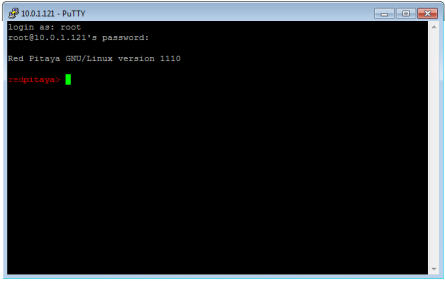
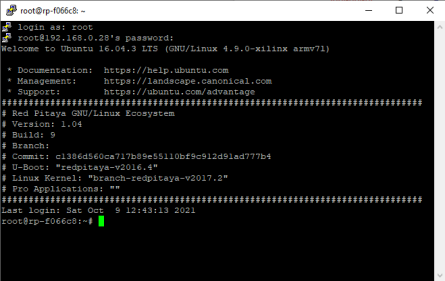
Making FPGA build instructions clearer. Some fixes to console instructions.

Changed region(s): [[0.0, 0.0, 1.0, 1.0]]

diff --git a/developerGuide/software/build/fpga/fpga.rst b/developerGuide/software/build/fpga/fpga.rst
@@ -21,10 +21,28 @@ Install libraries:
 Xilinx Vivado is available from Xilinx downloads page:
 https://www.xilinx.com/support/download/index.html/content/xilinx/en/downloadNav/vivado-design-tools/archive.html
 
+On officially unsupported versions of **Linux**, the installer gives you a warning, but Vivado should work fine, for example running it on Ubuntu 20.04 instead of 18.04.
+
+If the installer glitches out anyway, your /etc/os-release file needs to be changed to "fake" the OS version.
+First, backup the file and then open it as superuser with a text editor such as nano:
+
+.. code-block:: shell-session
+   $ sudo nano /etc/os-release
+
+and change the VERSION line to “VERSION=”18.04.4 LTS (Bionic Beaver)”” and save the file. The edited file should look something like this:
+
+.. figure:: os_release.jpg
+
+After that you can either run the Xilinx_Unified_2020.1_0602_1208_Lin64.bin (Linux web-installer) or the xsetup file from the extracted folder (unified installer).
+After the installation finishes replace the modified file with the one you backed up – failure to do so might cause some problems with other programs.
+
+For more information on Vivado installation, see:
+https://redpitaya-knowledge-base.readthedocs.io/en/latest/learn_fpga/3_vivado_env/tutorfpga1.html
 
 3. *Xilinx SDK development environments 2019.1*
 Xilinx SDK is available from Xilinx downloads page:
 https://www.xilinx.com/support/download/index.html/content/xilinx/en/downloadNav/vitis/archive-sdk.html
+
 
 
 *******************
@@ -165,18 +183,36 @@ Table of required build flags for FPGA projects per board
 | SIGNALlab 250-12     | MODEL=Z20_250       |
 +----------------------+---------------------+
 
-
-If Xilinx Vivado is installed at the default location, then the next command will properly configure system variables:
-
-.. code-block:: shell-session
-
-   $ . /opt/Xilinx/Vivado/2020.1/settings64.sh
-
-In addition to running settings64.sh, it might be also necessary to add SDK bin folder to ``$PATH`` environment variable.
+On the PC that has Vivado installed run the following commands to properly configure system variables (needs to be done every time you open a new terminal window). 
+Alternatively, you can add the following lines to your .bashrc file using a text editor – this will ensure that they are run at the system startup):
 
 .. code-block:: shell-session
+   $ source <path to Xilinx installation directory>/Xilinx/Vivado/2020.1/settings64.sh
+   $ source <path to Xilinx installation directory>/Xilinx/SDK/2019.1/settings64.sh
 
-   # export PATH=<Xilinx install path>/Xilinx/SDK/2019.1/bin:$PATH
+The Xilinx installation directory should be located in /opt directory (or /tools, if you used the default Vivado installation directory).
+These two commands will setup the $PATH environment variable.
+It might also be necessary to add SDK bin folder to the $PATH environment variable:
+
+.. code-block:: shell-session
+   #  export PATH=<path to Xilinx installation directory>/Xilinx/SDK/2019.1/bin:$PATH
+
+
+Check if you have Git command line tools installed on your computer:
+
+.. code-block:: shell-session
+   $ sudo apt update
+   $ sudo apt install git
+
+Create a new directory for the Red Pitaya code. Then download the code by running the following command in the newly created directory:
+
+.. code-block:: shell-session
+   $ git clone https://github.com/RedPitaya/RedPitaya.git
+
+The devicetree sources must also be downloaded and extracted by running 
+
+.. code-block:: shell-session
+   make -f Makefile.x86 devicetree 
 
 The default mode for building the FPGA is to run a TCL script inside Vivado.
 Non project mode is used, to avoid the generation of project files,
@@ -199,7 +235,7 @@ The following scripts perform various tasks:
 | ``red_pitaya_hsi_dts.tcl``        | creates device tree sources                    |
 +-----------------------------------+------------------------------------------------+
 
-First, change your directory to /<path to Red Pitaya repository>/redpitaya-public/fpga.
+First, change your directory to /<path to Red Pitaya repository>/RedPitaya/fpga.
 To generate a bit file, reports, device tree and FSBL, run (replace ``name`` with project name and ``model`` with model flag):
 
 .. code-block:: shell-session
@@ -208,12 +244,10 @@ To generate a bit file, reports, device tree and FSBL, run (replace ``name`` wit
 
 For example, build v0.94 for STEMlab 125-14:
 
-.. code-block:: shell-session
-
    $ make project PRJ=v0.94 MODEL=Z10
 
-The resulting .bit file is located in <project folder>/out/redpitaya.bit
-This file must be copied to /opt/redpitaya/fpga.
+The resulting .bit file is located in /prj/<project name>/out/redpitaya.bit
+This file must be copied to /opt/redpitaya/fpga on the Red Pitaya itself.
 
 If the script returns the following error:
 
@@ -234,7 +268,7 @@ When IPs are up-to-date, go to the tab Tcl console and run command:
 
 Of course, the script may also be named systemZ20.tcl systemZ20_14.tcl, depending on your board.
 
-This generates a new tcl script that replaces the old script in fpga/prj/<name of subproject>/ip
+This generates a new tcl script that replaces the old script in fpga/prj/<project name>/ip
 
 To generate and open a Vivado project using GUI, run:
 
@@ -244,20 +278,34 @@ To generate and open a Vivado project using GUI, run:
 
 For example, v0.94 project for STEMlab 125-14:
 
-.. code-block:: shell-session
-
    $ make project PRJ=v0.94 MODEL=Z10
 
-The resulting .bit file is located in <project folder>/project/redpitaya.runs/impl_1/red_pitaya_top.bit
-This file must be copied to /opt/redpitaya/fpga.
 
-Building the project from GUI is effectively the same as from CLI, except that the user has to click three buttons on the side of the GUI window:
+.. figure:: project_make.jpg
+
+A new, blank project will automatically built and all the necessary files associated with Red Pitaya will be added. 
+You can add/write your Verilog module at the end of red_pitaya_top.sv file (or add a new source by right clicking the Design Sources folder and Add Source):
+
+.. figure:: vivado_project.jpg
+
+You can connect newly added sources in the Diagram (Block Design) section (If it is not open: Window => Design => double click system). 
+Add them to the design by right click => Add Module in the design window (for more information check the Learn FPGA programming => FPGA lessons section) 
+https://redpitaya-knowledge-base.readthedocs.io/en/latest/learn_fpga/4_lessons/top.html
+
+Before you try to Run Synthesis, Run Implementation or Write Bitstream, you should check Language and Region settings on your Ubuntu computer – 
+make sure you have a Format that uses a dot (“.”) as a decimal separator (United Kingdom or United States will work). 
+Otherwise the Synthesis might fail as some parts of Vivado demand a dot as the decimal separator, which will cause Vivado not to recognize certain parts of the model.
+
+The resulting .bit file is located in fpga/prj/<project name>/project/redpitaya.runs/impl_1/red_pitaya_top.bit
+This file must be copied to /opt/redpitaya/fpga.
 
 .. figure:: vivadoGUI.png
 
 1. Run Synthesis
 2. Run Implementation
 3. Generate Bitstream
+
+The resulting .bit file is located in <Red Pitaya repository>/RedPitaya/fpga/prj/<project name>/project/redpitaya.runs/impl_1/ as red_pitaya_top.bit (the name of the .bit file is the same as the top module of the design)
 
 **********
 Simulation

diff --git a/developerGuide/software/console/console/console.rst b/developerGuide/software/console/console/console.rst
@@ -49,9 +49,17 @@ Connect your Red Pitaya and PC with micro USB B to USB A cable and follow the in
 Windows
 -------
 
-Download and install the `FTD driver <http://www.ftdichip.com/Drivers/VCP.htm>`_ to your PC. After installation, a 
+Download and install the `FTDI driver <http://www.ftdichip.com/Drivers/VCP.htm>`_ to your PC. After installation, a 
 new COM port will appear in the Device Manager you can use in Hyperterminal or another terminal utility to connect to 
 Red Pitaya.
+
+To adjust the connection settings of serial communication right click on the COM port and select Properties.
+
+.. figure:: device_manager.png
+
+.. figure:: com_port.png
+
+Boot reference must be done through minicom or similar serial console application.
 
 -----
 Linux
@@ -81,6 +89,8 @@ The first board connected to your PC will create a device named ``/dev/ttyUSB0``
 If **N** USB to serial devices are connected, they will appear as
 ``/dev/ttyUSBn`` where **n** in in **{0, 1, ..., N-1}**.
 To access this devices programs should be run with ``sudo``.
+
+Boot reference must be done through minicom or similar serial console application.
 
 ~~~~~~~~~~~
 ``minicom``
@@ -133,6 +143,10 @@ Go to ``Serial port setup``, press **Enter** and setup the next options:
 
 ``minicom`` requires some special ``Control+a`` key sequences to operate.
 Please see the `minicom manual <https://linux.die.net/man/1/minicom>`_ for details.
+
+After you have configured the details exit the settings. 
+Minicom should connect you to Red Pitaya and you should be asked to login after pressing Enter (see “3.2.1.2/top of the page” for username and password). 
+Should that not happen, leave minicom open and unplug Red Pitaya from power – after plugging it back in you should see the boot sequence of Red Pitaya.
 
 ~~~~~~~~~~
 ``screen``

diff --git a/developerGuide/software/console/ssh/ssh.rst b/developerGuide/software/console/ssh/ssh.rst
@@ -18,9 +18,9 @@ Connection instructions are available for:
     :backlinks: none
     :depth: 1
     
-=======
-Windows
-=======
+==========
+Windows 10
+==========
 
 For this example, `PuTTy tool <http://www.putty.org/>`_
 was used on Windows XP and Windows 7 Starter OS.
@@ -37,10 +37,13 @@ a security alert will pop-up asking you to confirm the connection.
 At this time, the ssh-key will be added to the registry in your computer.
 Command prompt pops-up after login is successful.
 
+When connected to RP via SSH (PuTTy) you get the following command prompt screen:
 .. figure:: 445px-Win_putty_logged.png
    :align: center
 
    SSH connection via PuTTy
+
+The last command prompt/terminal line should read as “root@rp-xxxxxx:~#“ (the default home directory on Red Pitaya is /root)
 
 =====
 Linux
@@ -54,6 +57,9 @@ Start Terminal and type (replace IP address with the right one):
    root@192.168.1.100's password: root
    Red Pitaya GNU/Linux/Ecosystem version 0.90-299
    redpitaya>
+
+.. figure:: linux_terminal.png
+   :align: center
 
 =====
 macOS
